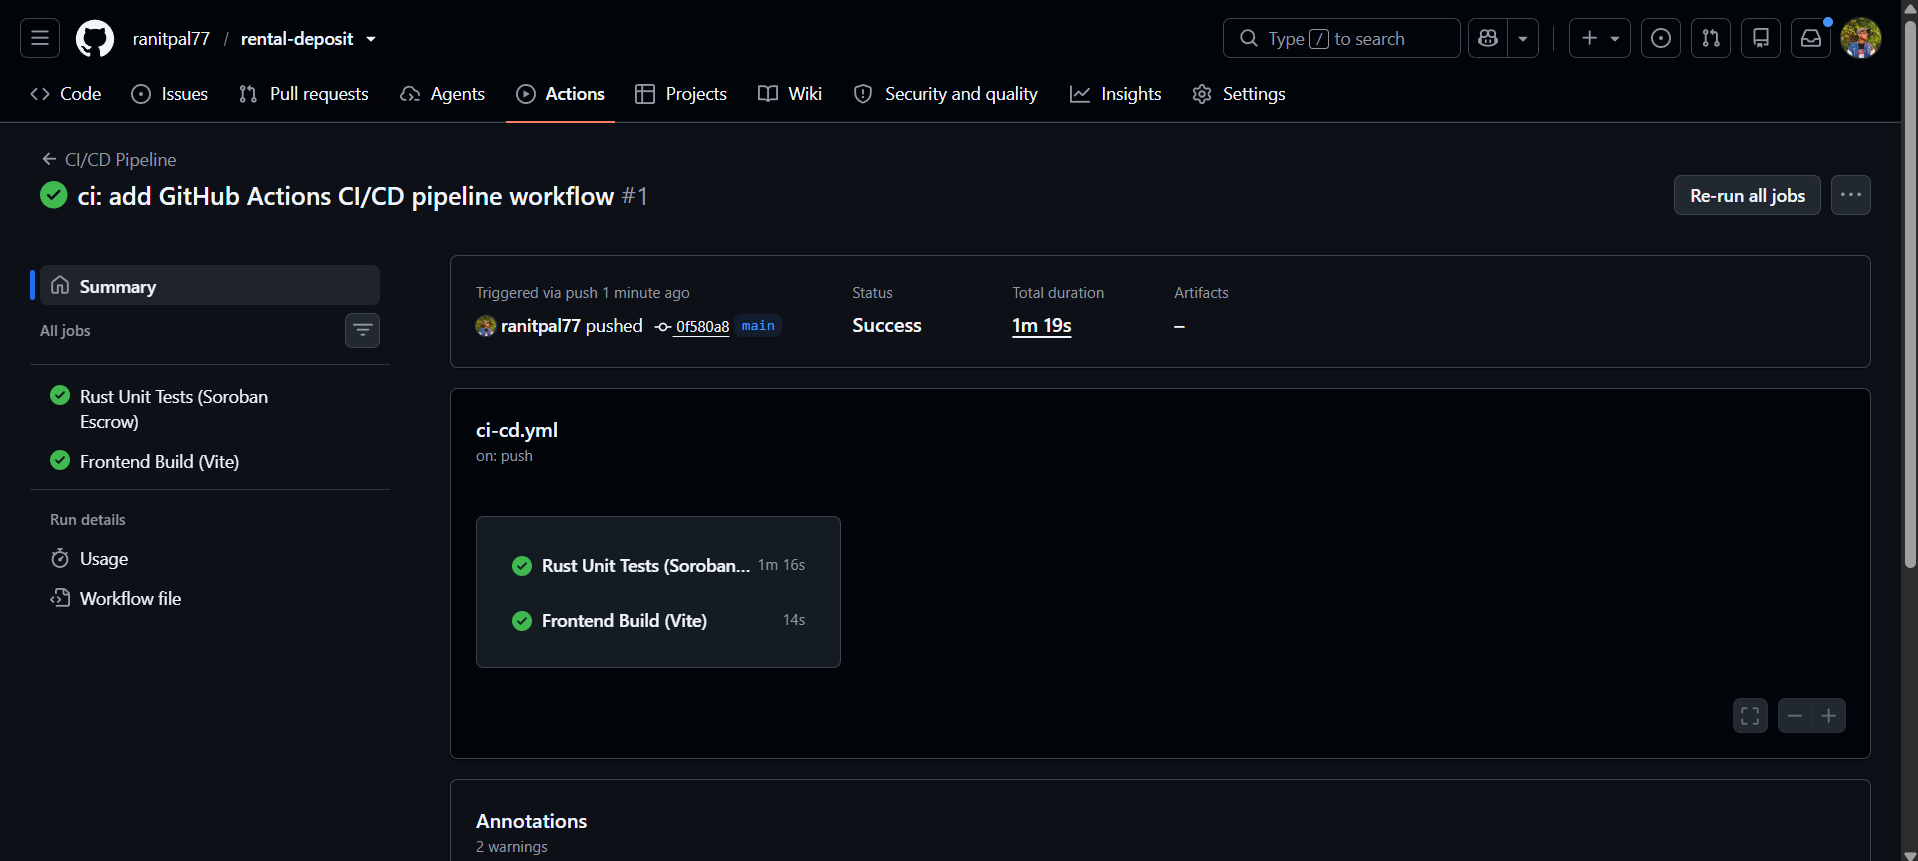
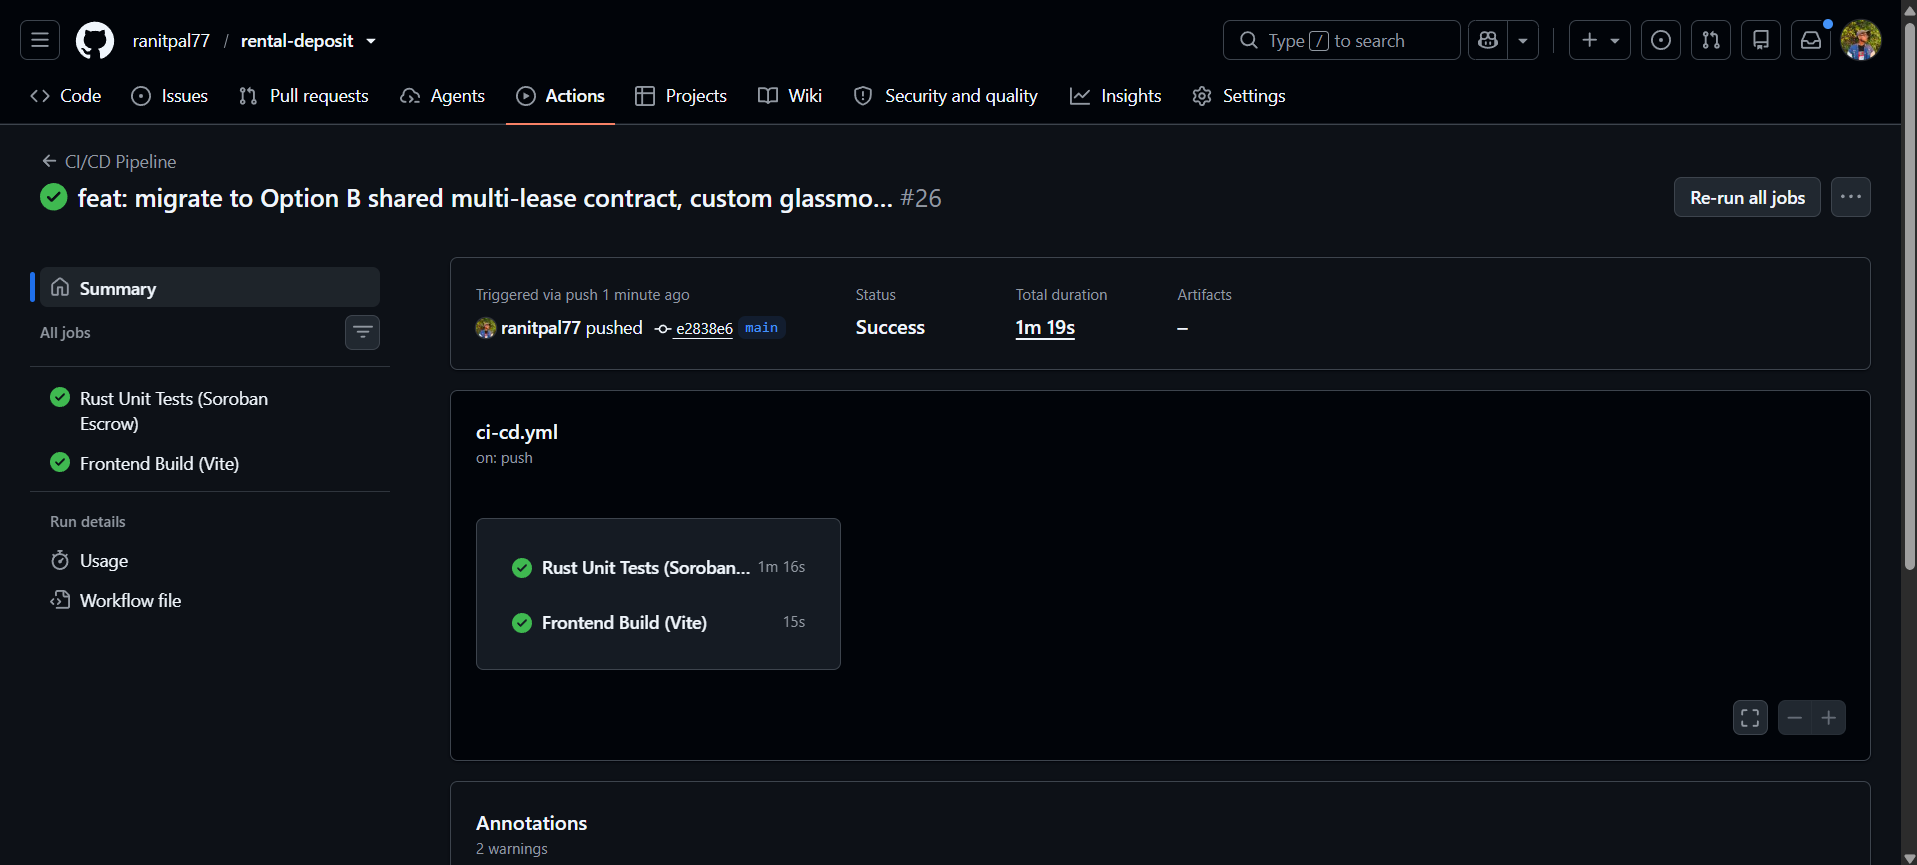
docs: update README assets and add demo videos

diff --git a/README.md b/README.md
@@ -52,13 +52,15 @@ By leveraging Stellar's protocol-level primitives and Soroban's smart contractin
 ---
 
 ### 📸 Wallet Connected State 
-![Wallet Connected](./assets/Wallet-connected-state.png)
+![Wallet Connected](./assets/Wallet-connected-state-01.png)
+![Wallet Connected](./assets/Wallet-connected-state-02.png)
 
 ### 📸 Wallet Balance
 ![Wallet Balance](./assets/Balance-displayed.png)
 
 ### 📸 Transaction Screenshot (Successful Testnet Transaction)
-![Transaction Screenshot](./assets/Successful-testnet-transaction.png)
+![Transaction Screenshot](./assets/Successful-testnet-transaction-01.png)
+![Transaction Screenshot](./assets/Successful-testnet-transaction-02.png)
 
 ### 📸 Deployed Smart Contract Screenshot
 ![Deployed Contract](./assets/deployed-contract-02.png)
@@ -330,7 +332,16 @@ rental-deposit/
 
 ---
 
-## 🌐 Live Demo
+## 🌐 Live Site
 [Live demo link](https://deposhield.netlify.app/)
+
+---
+
+## 🌐 Live Demo
+[Demo video 01](./assets/demo-video-01.mp4) (Tanante & Landlord)
+
+
+[Demo video 02](./assets/demo-video-02.mp4) (Tanante & Landlord & Arbitrator)
+
 
 ---